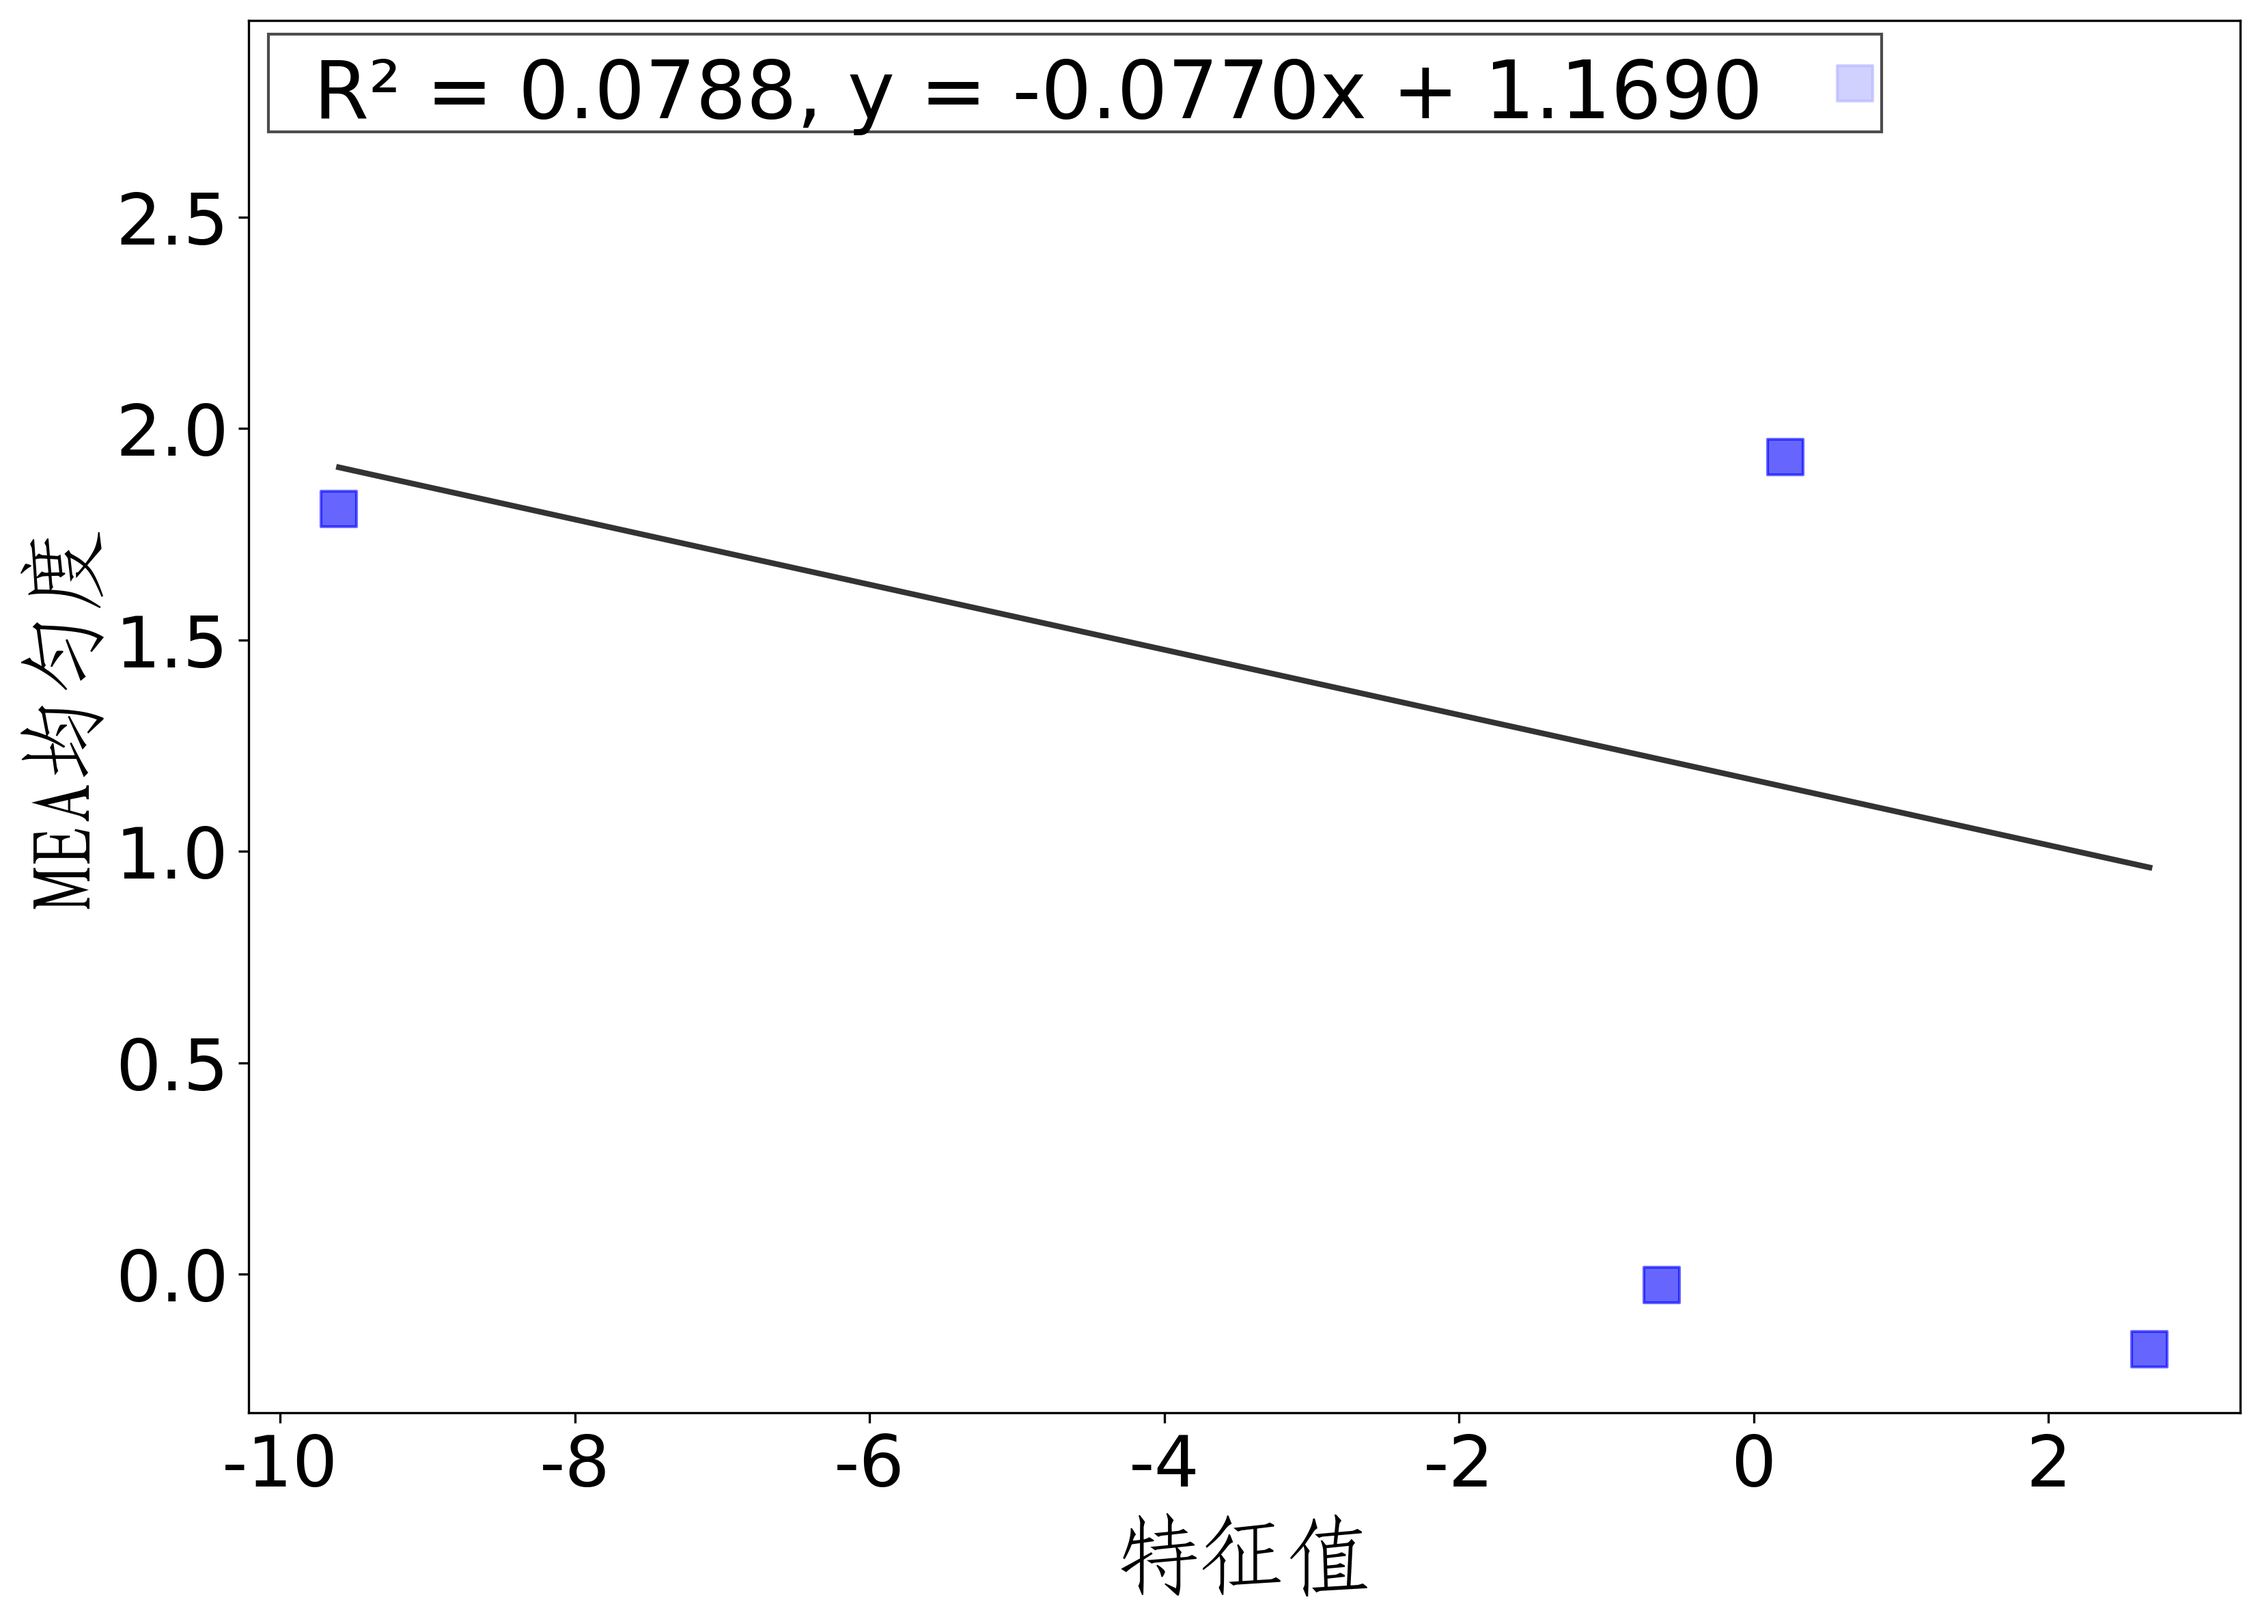
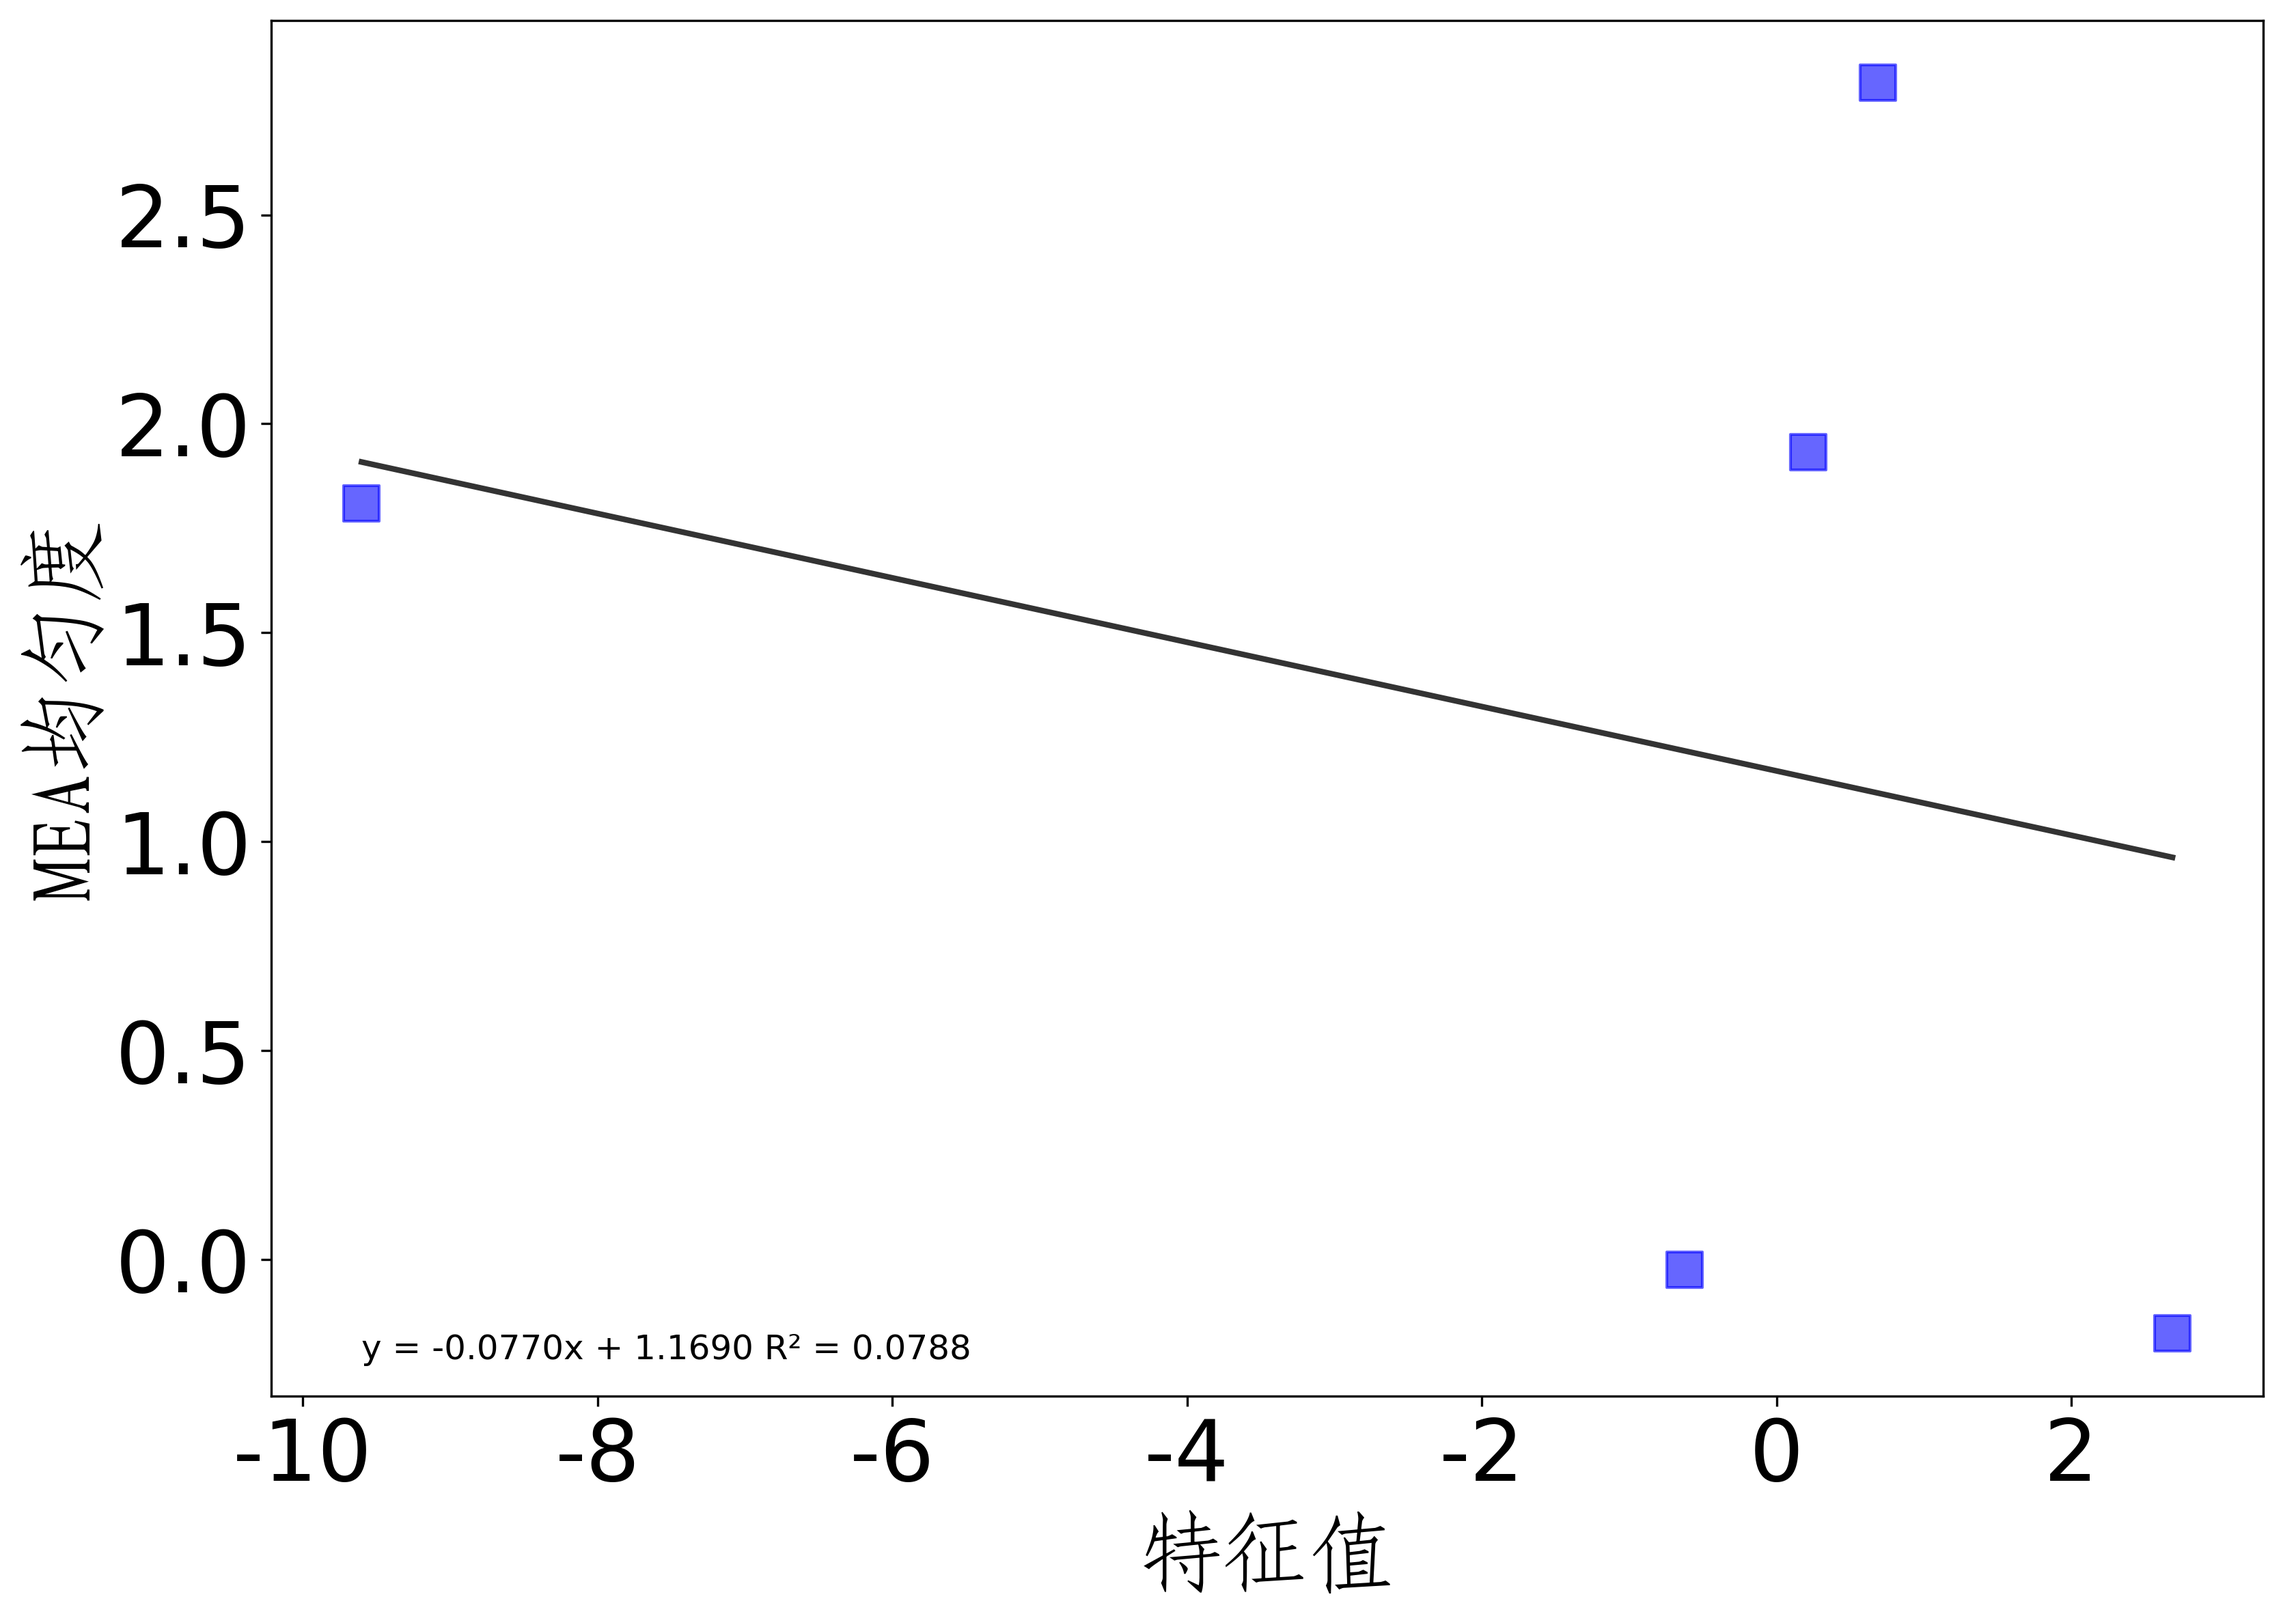
first commit

diff --git a/app.py b/app.py
@@ -70,10 +70,10 @@ def map2(file_path,option):
 
     # 在图中显示回归方程和 R²
     equation = f'y = {slope:.4f}x + {intercept:.4f}\n$R^2$ = {r_squared:.4f}'
-    plt.text(min(x), max(y), equation, fontsize=12, color='black', verticalalignment='top')
+    plt.text(min(x), max(y), equation, fontsize=20, color='black', verticalalignment='top')
 
     # 添加标题和标签
-    plt.xlabel('均匀度（预测）',fontproperties=font)
+    plt.xlabel('MEA均匀度（预测）',fontproperties=font)
     plt.ylabel('功率密度',fontproperties=font)
     plt.title('线性回归分析',fontproperties=font)
     plt.grid(False)
@@ -83,25 +83,6 @@ def map2(file_path,option):
     print(f"图片已保存为 {save_path}")
     # # 显示图形
     # plt.show()
-
-
-# class StandardScaler(nn.Module):
-#     def __init__(self):
-#         super(StandardScaler, self).__init__()
-#         self.mean = None
-#         self.std = None
-#
-#     def fit(self, x):
-#         self.mean = x.mean(0, keepdim=True)
-#         self.std = x.std(0, keepdim=True) + 1e-7  # 添加小值避免除零
-#         return self
-#
-#     def transform(self, x):
-#         return (x - self.mean) / self.std
-#
-#     def fit_transform(self, x):
-#         self.fit(x)
-#         return self.transform(x)
 class StandardScaler(nn.Module):
     def __init__(self):
         super(StandardScaler, self).__init__()
@@ -158,8 +139,6 @@ class RegressionNet(nn.Module):
 
     def forward(self, x):
         return self.layers(x)
-
-
 class CustomDataset(Dataset):
     def __init__(self, X, y):
         self.X = torch.FloatTensor(X)
@@ -170,7 +149,6 @@ class CustomDataset(Dataset):
 
     def __getitem__(self, idx):
         return self.X[idx], self.y[idx]
-
 def train_and_evaluate_model(X, y,scaler, device='cpu' if torch.cuda.is_available() else 'cpu'):
     all_data = []
     """训练和评估模型"""
@@ -264,7 +242,6 @@ def train_and_evaluate_model(X, y,scaler, device='cpu' if torch.cuda.is_availabl
     #
     # return model, scaler, X, y, output_np, r2,weights,bias
     return all_data
-
 def train_and_evaluate_model_l(X, y, scaler, device='cpu' if torch.cuda.is_available() else 'cpu'):
     # 转换数据为 Tensor
     X_tensor = torch.FloatTensor(X)
@@ -338,8 +315,6 @@ def predict_and_save(X_new, xlsx_path, model_path='regression_model_l.pth', devi
     # 保存回 Excel 文件
     df.to_excel(xlsx_path, index=False)
     # print(f"预测值已保存到 {xlsx_path} 的 'predict' 列")
-
-
 def plot_results_multiple(all_results,type):
     """绘制多个材料的散点和拟合直线"""
     fig = plt.figure(figsize=(12, 8))
@@ -381,7 +356,6 @@ def plot_results_multiple(all_results,type):
 
     # 存储所有材料的R²值和方程
     all_r2_texts = []
-
     # 第一轮：绘制图形并收集文本数据
     for idx, (material, data) in enumerate(all_results.items(), 1):
         # 将数据展开成x和y的形式
@@ -437,59 +411,43 @@ def plot_results_multiple(all_results,type):
                        linewidth=2)
         )
         material_labels.append(material_style['label'])
+        equation+=f" R² = {r2:.4f}"
+        plt.text(min(x_data),min(y_data),equation, fontsize=20, color='black', verticalalignment='top')
+    # # 设置文本起始位置
+    # r2_y_position = 0.93
+    # equation_y_position = 0.95 - len(all_results) * 0.05
+    #
+    # # 添加背景框
+    # box_height = len(all_r2_texts) * 0.07
+    # plt.gca().add_patch(plt.Rectangle((0.01, r2_y_position - box_height + 0.06),
+    #                                   0.81,  # 框的宽度
+    #                                   box_height,  # 框的高度
+    #                                   transform=plt.gca().transAxes,
+    #                                   facecolor='white',
+    #                                   edgecolor='black',
+    #                                   alpha=0.7,
+    #                                   linewidth=1))
+    #
+    # # 显示所有R²值
+    # for material, r2_text in all_r2_texts:
+    #     plt.text(0.02, r2_y_position, r2_text,
+    #              transform=plt.gca().transAxes,
+    #              color='black',
+    #              fontsize=28)
+    #     r2_y_position -= 0.05
 
-    # 设置文本起始位置
-    r2_y_position = 0.93
-    equation_y_position = 0.95 - len(all_results) * 0.05
-
-    # 添加背景框
-    box_height = len(all_r2_texts) * 0.07
-    plt.gca().add_patch(plt.Rectangle((0.01, r2_y_position - box_height + 0.06),
-                                      0.81,  # 框的宽度
-                                      box_height,  # 框的高度
-                                      transform=plt.gca().transAxes,
-                                      facecolor='white',
-                                      edgecolor='black',
-                                      alpha=0.7,
-                                      linewidth=1))
-
-    # 显示所有R²值
-    for material, r2_text in all_r2_texts:
-        plt.text(0.02, r2_y_position, r2_text,
-                 transform=plt.gca().transAxes,
-                 color='black',
-                 fontsize=28)
-        r2_y_position -= 0.05
-
-
-
-    # 创建两个图例
-    # 流道类型图例
-    # point_legend = ax.legend(handles=point_legend_elements,
-    #                          bbox_to_anchor=(0.31, 0.89),
-    #                          loc='upper right',
-    #                          frameon=True,
-    #                          prop={'size': 23}
-    #                          )
-
-
-
-    # 添加第一个图例回图中
-    # ax.add_artist(point_legend)
 
     plt.xlabel('特征值',fontsize=30,fontproperties=font)
     plt.ylabel('MEA均匀度',fontsize=30,fontproperties=font)
 
-    plt.tick_params(axis='x', labelsize=25)  # 设置x轴刻度标签字体大小
-    plt.tick_params(axis='y', labelsize=25)  # 设置y轴刻度标签字体大小
+    plt.tick_params(axis='x', labelsize=30)  # 设置x轴刻度标签字体大小
+    plt.tick_params(axis='y', labelsize=30)  # 设置y轴刻度标签字体大小
     # 调整布局以确保图例不被裁剪
     plt.tight_layout()
     plt.subplots_adjust(left=0.15,right=0.96)  # 为右侧图例留出空间
 
     plt.savefig(f'{type}_materials_comparison.png', dpi=300, bbox_inches='tight')
     plt.show()
-
-
 def five1(files):
     # try:
         # 设置中文字体
@@ -527,13 +485,35 @@ def five1(files):
         }
     # 绘制所有材料的对比图
     plot_results_multiple(all_results,point_types[0])
-
 # 按钮点击状态
 def click_button():
     st.session_state.clicked = True
 
+# 设置页面标题和样式
 st.set_page_config(page_title="Predict")
+
+st.markdown(
+    """
+    <style>
+    html, body, [class*="css"]  {
+        font-size: 20px !important;
+    }
+    h1 {
+        font-size: 40px !important;
+    }
+    h2 {
+        font-size: 30px !important;
+    }
+    h3 {
+        font-size: 25px !important;
+    }
+    </style>
+    """,
+    unsafe_allow_html=True
+)
+
 st.markdown("# Predict")
+
 
 # 选择输入样本数量（最少 5 个）
 num_samples = st.number_input("选择输入样本数", min_value=5, max_value=10, value=5, step=1)

diff --git a/five1.py b/five1.py
@@ -342,7 +342,6 @@ def plot_results_multiple(all_results,type):
 
     # 存储所有材料的R²值和方程
     all_r2_texts = []
-
     # 第一轮：绘制图形并收集文本数据
     for idx, (material, data) in enumerate(all_results.items(), 1):
         # 将数据展开成x和y的形式
@@ -398,55 +397,40 @@ def plot_results_multiple(all_results,type):
                        linewidth=2)
         )
         material_labels.append(material_style['label'])
+        equation+=f" R² = {r2:.4f}"
+        plt.text(min(x_data),min(y_data),equation, fontsize=12, color='black', verticalalignment='top')
+    # # 设置文本起始位置
+    # r2_y_position = 0.93
+    # equation_y_position = 0.95 - len(all_results) * 0.05
+    #
+    # # 添加背景框
+    # box_height = len(all_r2_texts) * 0.07
+    # plt.gca().add_patch(plt.Rectangle((0.01, r2_y_position - box_height + 0.06),
+    #                                   0.81,  # 框的宽度
+    #                                   box_height,  # 框的高度
+    #                                   transform=plt.gca().transAxes,
+    #                                   facecolor='white',
+    #                                   edgecolor='black',
+    #                                   alpha=0.7,
+    #                                   linewidth=1))
+    #
+    # # 显示所有R²值
+    # for material, r2_text in all_r2_texts:
+    #     plt.text(0.02, r2_y_position, r2_text,
+    #              transform=plt.gca().transAxes,
+    #              color='black',
+    #              fontsize=28)
+    #     r2_y_position -= 0.05
 
-    # 设置文本起始位置
-    r2_y_position = 0.93
-    equation_y_position = 0.95 - len(all_results) * 0.05
-
-    # 添加背景框
-    box_height = len(all_r2_texts) * 0.07
-    plt.gca().add_patch(plt.Rectangle((0.01, r2_y_position - box_height + 0.06),
-                                      0.81,  # 框的宽度
-                                      box_height,  # 框的高度
-                                      transform=plt.gca().transAxes,
-                                      facecolor='white',
-                                      edgecolor='black',
-                                      alpha=0.7,
-                                      linewidth=1))
-
-    # 显示所有R²值
-    for material, r2_text in all_r2_texts:
-        plt.text(0.02, r2_y_position, r2_text,
-                 transform=plt.gca().transAxes,
-                 color='black',
-                 fontsize=28)
-        r2_y_position -= 0.05
-
-
-
-    # 创建两个图例
-    # 流道类型图例
-    # point_legend = ax.legend(handles=point_legend_elements,
-    #                          bbox_to_anchor=(0.31, 0.89),
-    #                          loc='upper right',
-    #                          frameon=True,
-    #                          prop={'size': 23}
-    #                          )
-
-
-
-    # 添加第一个图例回图中
-    # ax.add_artist(point_legend)
 
     plt.xlabel('特征值',fontsize=30,fontproperties=font)
     plt.ylabel('MEA均匀度',fontsize=30,fontproperties=font)
 
-    plt.tick_params(axis='x', labelsize=25)  # 设置x轴刻度标签字体大小
-    plt.tick_params(axis='y', labelsize=25)  # 设置y轴刻度标签字体大小
+    plt.tick_params(axis='x', labelsize=30)  # 设置x轴刻度标签字体大小
+    plt.tick_params(axis='y', labelsize=30)  # 设置y轴刻度标签字体大小
     # 调整布局以确保图例不被裁剪
     plt.tight_layout()
     plt.subplots_adjust(left=0.15,right=0.96)  # 为右侧图例留出空间
-
     plt.savefig(f'{type}_materials_comparison.png', dpi=300, bbox_inches='tight')
     plt.show()
 
